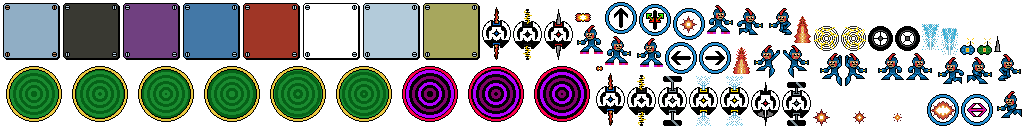
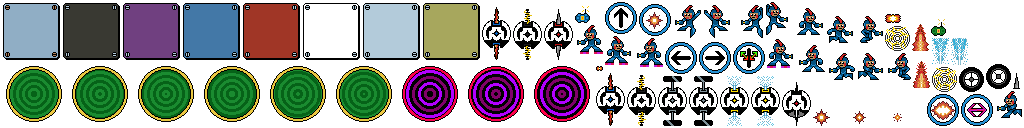
implemented sharpzoomba class

Changed region(s): [[0.625, 0.0312, 1.0, 1.0], [0.5625, 0.0938, 0.5938, 0.1875]]

diff --git a/core/src/com/udacity/gamedev/gigagal/util/Assets.java b/core/src/com/udacity/gamedev/gigagal/util/Assets.java
@@ -11,9 +11,7 @@ import com.badlogic.gdx.graphics.g2d.TextureAtlas;
 import com.badlogic.gdx.graphics.g2d.TextureAtlas.AtlasRegion;
 import com.badlogic.gdx.utils.Array;
 import com.badlogic.gdx.utils.Disposable;
-import com.udacity.gamedev.gigagal.Level;
-import com.udacity.gamedev.gigagal.entities.FireyZoomba;
-import com.udacity.gamedev.gigagal.entities.GushingZoomba;
+import com.udacity.gamedev.gigagal.entities.SharpZoomba;
 
 // immutable singleton
 public final class Assets implements Disposable, AssetErrorListener {
@@ -29,6 +27,7 @@ public final class Assets implements Disposable, AssetErrorListener {
     private GushingZoombaAssets gushingZoombaAssets;
     private ChargedZoombaAssets chargedZoombaAssets;
     private WhirlingZoombaAssets whirlingZoombaAssets;
+    private SharpZoombaAssets sharpZoombaAssets;
     private SpikeAssets spikeAssets;
     private FlameAssets flameAssets;
     private GeiserAssets geiserAssets;
@@ -63,6 +62,7 @@ public final class Assets implements Disposable, AssetErrorListener {
         gushingZoombaAssets = new GushingZoombaAssets(atlas);
         chargedZoombaAssets = new ChargedZoombaAssets(atlas);
         whirlingZoombaAssets = new WhirlingZoombaAssets(atlas);
+        sharpZoombaAssets = new SharpZoombaAssets(atlas);
         spikeAssets = new SpikeAssets(atlas);
         flameAssets = new FlameAssets(atlas);
         geiserAssets = new GeiserAssets(atlas);
@@ -237,6 +237,15 @@ public final class Assets implements Disposable, AssetErrorListener {
                     whirlingZoombaRegions, PlayMode.NORMAL);
         }
     }
+
+    public class SharpZoombaAssets {
+
+        public final AtlasRegion sharpZoomba;
+
+        public SharpZoombaAssets(TextureAtlas atlas) {
+            sharpZoomba = atlas.findRegion(Constants.SHARPZOOMBA_SPRITE);
+        }
+    }
     
 
     public class SpikeAssets {
@@ -393,6 +402,7 @@ public final class Assets implements Disposable, AssetErrorListener {
     public final GushingZoombaAssets getGushingZoombaAssets() { return gushingZoombaAssets; }
     public final ChargedZoombaAssets getChargedZoombaAssets() { return chargedZoombaAssets; }
     public final WhirlingZoombaAssets getWhirlingZoombaAssets() { return whirlingZoombaAssets; }
+    public final SharpZoombaAssets getSharpZoombaAssets() { return sharpZoombaAssets; }
     public final SpikeAssets getSpikeAssets() { return spikeAssets; }
     public final FlameAssets getFlameAssets() { return flameAssets; }
     public final GeiserAssets getGeiserAssets() { return geiserAssets; }

diff --git a/core/src/com/udacity/gamedev/gigagal/util/LevelLoader.java b/core/src/com/udacity/gamedev/gigagal/util/LevelLoader.java
@@ -10,6 +10,7 @@ import com.udacity.gamedev.gigagal.entities.ChargedZoomba;
 import com.udacity.gamedev.gigagal.entities.Coil;
 import com.udacity.gamedev.gigagal.entities.FireyZoomba;
 import com.udacity.gamedev.gigagal.entities.GushingZoomba;
+import com.udacity.gamedev.gigagal.entities.SharpZoomba;
 import com.udacity.gamedev.gigagal.entities.Vacuum;
 import com.udacity.gamedev.gigagal.entities.Flame;
 import com.udacity.gamedev.gigagal.entities.Geiser;
@@ -151,6 +152,9 @@ public final class LevelLoader {
                 } else if (identifier.equals(Constants.LEVEL_WHIRLINGZOOMBA_TAG)) {
                     final WhirlingZoomba whirlingZoomba = new WhirlingZoomba(platform);
                     level.getDestructibles().add(whirlingZoomba);
+                } else if (identifier.equals(Constants.LEVEL_SHARPZOOMBA_TAG)) {
+                    final SharpZoomba sharpZoomba = new SharpZoomba(platform);
+                    level.getDestructibles().add(sharpZoomba);
                 }
             }
         }

diff --git a/core/src/com/udacity/gamedev/gigagal/util/Constants.java b/core/src/com/udacity/gamedev/gigagal/util/Constants.java
@@ -101,6 +101,9 @@ public final class Constants {
     public static final String WHIRLINGZOOMBA_SPRITE_1 = "zoomba-rubber-1";
     public static final String WHIRLINGZOOMBA_SPRITE_2 = "zoomba-rubber-2";
 
+    // Sharp-Zoomba
+    public static final String SHARPZOOMBA_SPRITE = "zoomba-metal";
+
     // Spike
     public static final Vector2 SPIKE_CENTER = new Vector2(4, 8);
     public static final int SPIKE_DAMAGE = 30;
@@ -209,6 +212,7 @@ public final class Constants {
     public static final String LEVEL_GUSHINGZOOMBA_TAG = "GushingZoomba";
     public static final String LEVEL_CHARGEDZOOMBA_TAG = "ChargedZoomba";
     public static final String LEVEL_WHIRLINGZOOMBA_TAG = "WhirlingZoomba";
+    public static final String LEVEL_SHARPZOOMBA_TAG = "SharpZoomba";
     public static final String[] LEVELS = {"levels/Level1.dt", "levels/Level2.dt", "levels/Level3.dt", };
 
     // HUD

diff --git a/core/src/com/udacity/gamedev/gigagal/entities/SharpZoomba.java b/core/src/com/udacity/gamedev/gigagal/entities/SharpZoomba.java
@@ -1,0 +1,21 @@
+package com.udacity.gamedev.gigagal.entities;
+
+import com.badlogic.gdx.graphics.g2d.SpriteBatch;
+import com.badlogic.gdx.graphics.g2d.TextureRegion;
+import com.udacity.gamedev.gigagal.util.Assets;
+import com.udacity.gamedev.gigagal.util.Constants;
+import com.udacity.gamedev.gigagal.util.Utils;
+
+public class SharpZoomba extends Zoomba {
+
+    //ctor
+    public SharpZoomba(Platform platform) {
+        super(platform);
+    }
+
+    @Override
+    public void render(SpriteBatch batch) {
+        final TextureRegion region = Assets.getInstance().getSharpZoombaAssets().sharpZoomba;
+        Utils.drawTextureRegion(batch, region, super.getPosition(), Constants.ZOOMBA_CENTER);
+    }
+}
